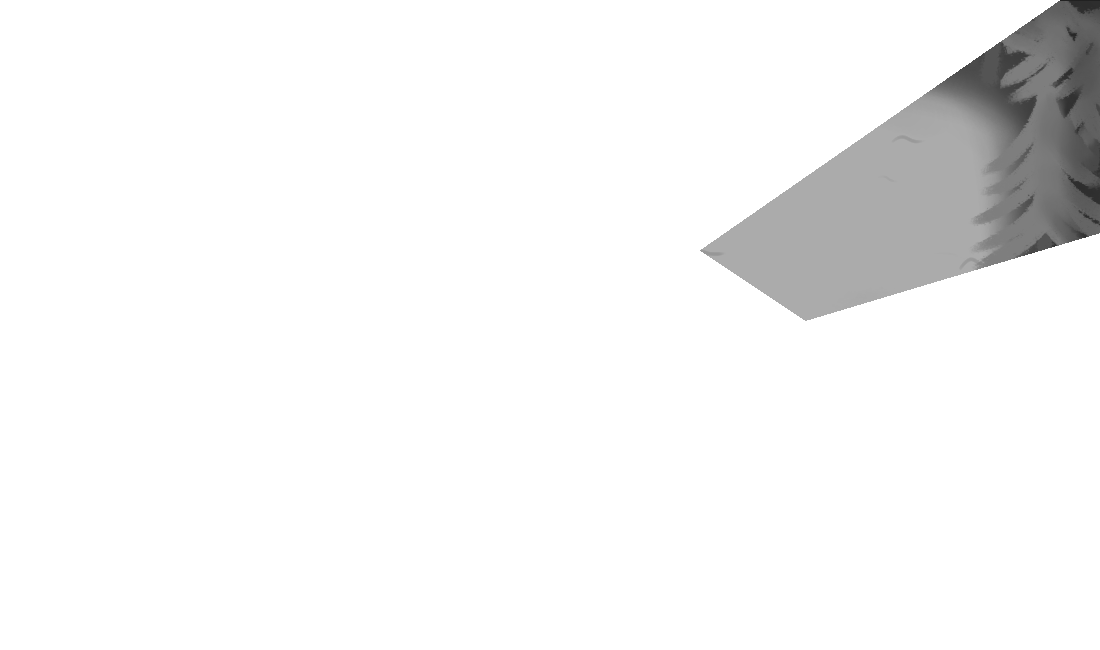
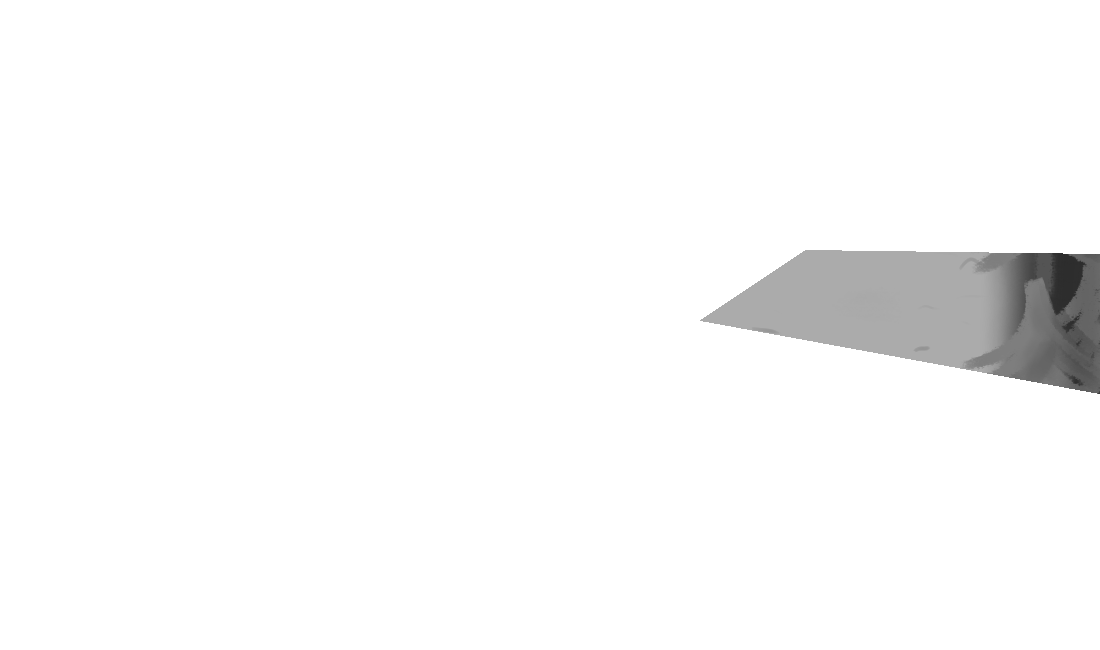
added wood, projectiles and snowman sprites

Changed region(s): [[0.6182, 0.0, 1.0, 0.6154]]

diff --git a/Main.py b/Main.py
@@ -37,6 +37,14 @@ character_back = [pygame.image.load('assets/Character-back-' + str(i) + ".png") 
 character_shoot = [pygame.image.load('assets/Character-shoot-' + str(i) + ".png") for i in range(1, 4)]
 character_leftshoot_image = pygame.transform.flip(pygame.image.load('assets/Character-shoot-1.png'), True, False)
 character_shoot.insert(1, character_leftshoot_image)
+#wood
+woods = pygame.image.load('assets/Wood.png')
+#projectiles
+fireball_image = pygame.image.load('assets/Fireball.png')
+FIREBALL = pygame.transform.scale(fireball_image, (15, 15))
+snowball_image = pygame.image.load('assets/Snowball.png')
+SMALL_SNOWBALL = pygame.transform.scale(snowball_image, (15, 15))
+BIG_SNOWBALL = pygame.transform.scale(snowball_image, ( 25, 25))
 #first snowman
 first_snomwan = [pygame.image.load('assets/First-snowman-' + str(i) + ".png") for i in range(1, 4)]
 firstsnowman_left_image = pygame.transform.flip(pygame.image.load('assets/First-snowman-3.png'), True, False)
@@ -59,10 +67,10 @@ def update(player, fireballs, snowballs, campfire, snowmen, boulders, keys, mous
 
     campfire.draw(win, campfires)
 
-    score_text = SCORE_FONT.render(str(score), 1, (255, 255, 0))
+    score_text = SCORE_FONT.render("Score: " + str(score), 1, (255, 255, 0))
 
     for wood in campfire.wood:
-        wood.draw(win)
+        wood.draw(win,woods)
         if Helper.collide(player.x, player.y, player.WIDTH, player.HEIGHT, wood.x, wood.y):
             campfire.wood.remove(wood)
             if campfire.health < campfire.max_health:
@@ -70,8 +78,11 @@ def update(player, fireballs, snowballs, campfire, snowmen, boulders, keys, mous
                 if campfire.health > 100:
                     campfire.health = 100
 
-    for x, projectile in enumerate([*fireballs, *snowballs]):
-        projectile.draw(win)
+
+    for fireball in fireballs:
+        fireball.draw(win, FIREBALL)
+    for snowball in snowballs:
+        snowball.draw(win, SMALL_SNOWBALL)
 
     for snowman in snowmen:
         snowman.draw(win)
@@ -152,17 +163,25 @@ def main():
             run = False
 
         #adds snowmen here
-        if random.random() < Snowman.SNOWMAN_SPAWN_RATE:
+        ''''
+        if random.random() < Snowman.FIRSTSNOWMAN_SPAWN_RATE:
             snowmen.append(Snowman.spawn_snowman(WIDTH, HEIGHT, campfire))
 
-
-
+        '''
+        if score <= 200:
+            if random.random() < Snowman.FIRSTSNOWMAN_SPAWN_RATE:
+                first_snowmen.append(Snowman.spawn_snowman(WIDTH, HEIGHT, campfire))
+        elif score <= 600:
+            if random.random() < Snowman.FIRSTSNOWMAN_SPAWN_RATE:
+                first_snowmen.append(Snowman.spawn_snowman(WIDTH, HEIGHT, campfire))
+            if random.random() < Snowman.SECONDSNOWMAN_SPAWN_RATE:
+                first_snowmen.append(Snowman.spawn_snowman(WIDTH, HEIGHT, campfire))
 
         for snowman in snowmen:
             snowball = snowman.shoot()
             if snowball is not None:
                 snowballs.append(snowball)
-            snowman.move()
+            snowman.move(campfire)
 
         campfire.spawn_wood()
 

diff --git a/Player.py b/Player.py
@@ -70,16 +70,20 @@ class Player:
                 win.blit(back[self.animation_step], (self.x - x_offset, self.y - y_offset))
         else:
             if self.shooting:
-                if self.y - 30 <= mousepos[1] <= self.y - 30 + self.HEIGHT:
+                if self.y - 30 <= mousepos[1] <= self.y  + self.HEIGHT:
                     if mousepos[0] >= self.x + self.WIDTH:
                         win.blit(shoot[0], (self.x - x_offset, self.y - y_offset))
+                        self.direction = "right"
                     elif mousepos[0] <= self.x:
                         win.blit(shoot[1], (self.x - x_offset, self.y - y_offset))
+                        self.direction = "left"
                 else:
                     if mousepos[1] > self.y - 30 + self.HEIGHT:
                         win.blit(shoot[2], (self.x - x_offset, self.y - y_offset))
+                        self.direction = "front"
                     elif mousepos[1] < self.y - 30:
                         win.blit(shoot[3], (self.x - x_offset, self.y - y_offset))
+                        self.direction = "back"
             else:
                 if self.direction == "right":
                     win.blit(right[0], (self.x - x_offset, self.y - y_offset))

diff --git a/Snowman.py b/Snowman.py
@@ -7,7 +7,9 @@ import time
 import Campfire
 
 # update
-SNOWMAN_SPAWN_RATE = 0.01
+FIRSTSNOWMAN_SPAWN_RATE = 0.01
+SECONDSNOWMAN_SPAWN_RATE = 0.01
+THIRDSNOWMAN_SPAWN_RATE = 0.01
 BORDER = (0, 0, 1100, 650)
 SAFE_DISTANCE = 30
 
@@ -34,7 +36,7 @@ class Snowman:
         # aidan walking cycle
         pygame.draw.rect(win, (255, 255, 255), (self.x - self.WIDTH // 2, self.y - self.HEIGHT // 2, self.WIDTH, self.HEIGHT))
 
-    def move(self):
+    def move(self, campfire):
         if not self.reached_goal:
             self.x = self.x + math.sin(self.angle) * self.speed
             self.y = self.y + math.cos(self.angle) * self.speed
@@ -54,12 +56,12 @@ class Snowman:
         return self.health <= 0
 
 class first_snowman(Snowman):
-    def move(self):
+    def move(self, campfire):
         if not self.reached_goal:
             self.x = self.x + math.sin(self.angle) * self.speed
             self.y = self.y + math.cos(self.angle) * self.speed
             if Helper.get_distance(self.x, self.y, campfire.x, campfire.y) >= campfire.FIRE_DISTANCE:
-                return True
+                self.reached_goal = True
 
     '''
     def draw(self, win):

diff --git a/Campfire.py b/Campfire.py
@@ -75,7 +75,6 @@ class Wood:
         self.width = 25
         self.height = 25
 
-    def draw(self, win):
-        # aidan magic
-        pygame.draw.rect(win, (150, 75, 0), (self.x - self.width, self.y - self.height, self.width, self.height))
-
+    def draw(self, win, wood):
+        # pygame.draw.rect(win, (150, 75, 0), (self.x - self.width, self.y - self.height, self.width, self.height))
+        win.blit(wood, (self.x - self.width, self.y - self.height))

diff --git a/Projectiles.py b/Projectiles.py
@@ -19,8 +19,9 @@ class Projectile:
         self.damage = damage
         self.size = size
 
-    def draw(self, win):
-        pygame.gfxdraw.aacircle(win, int(self.x), int(self.y), self.size, (0,0,0))
+    def draw(self, win, item):
+        # pygame.gfxdraw.aacircle(win, int(self.x), int(self.y), self.size, (0,0,0))
+        win.blit(item, (int(self.x),int(self.y)))
 
     def move(self):
         # move the snowball along an angle
